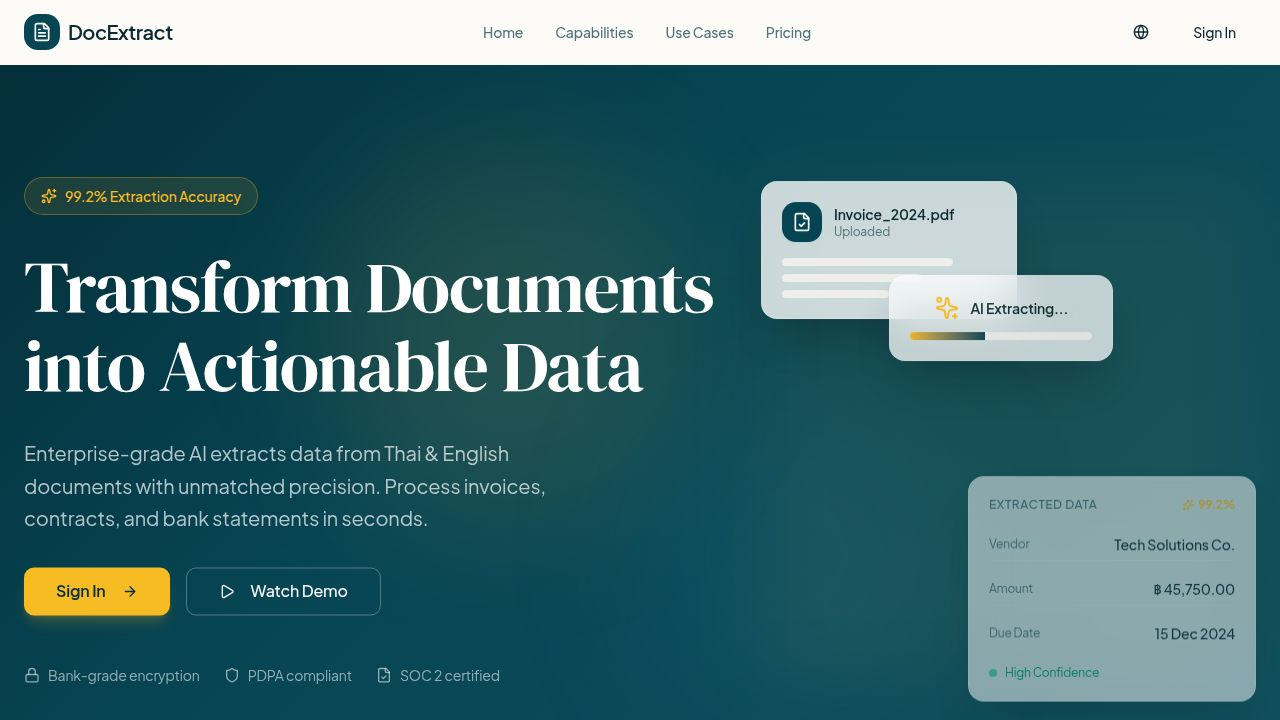
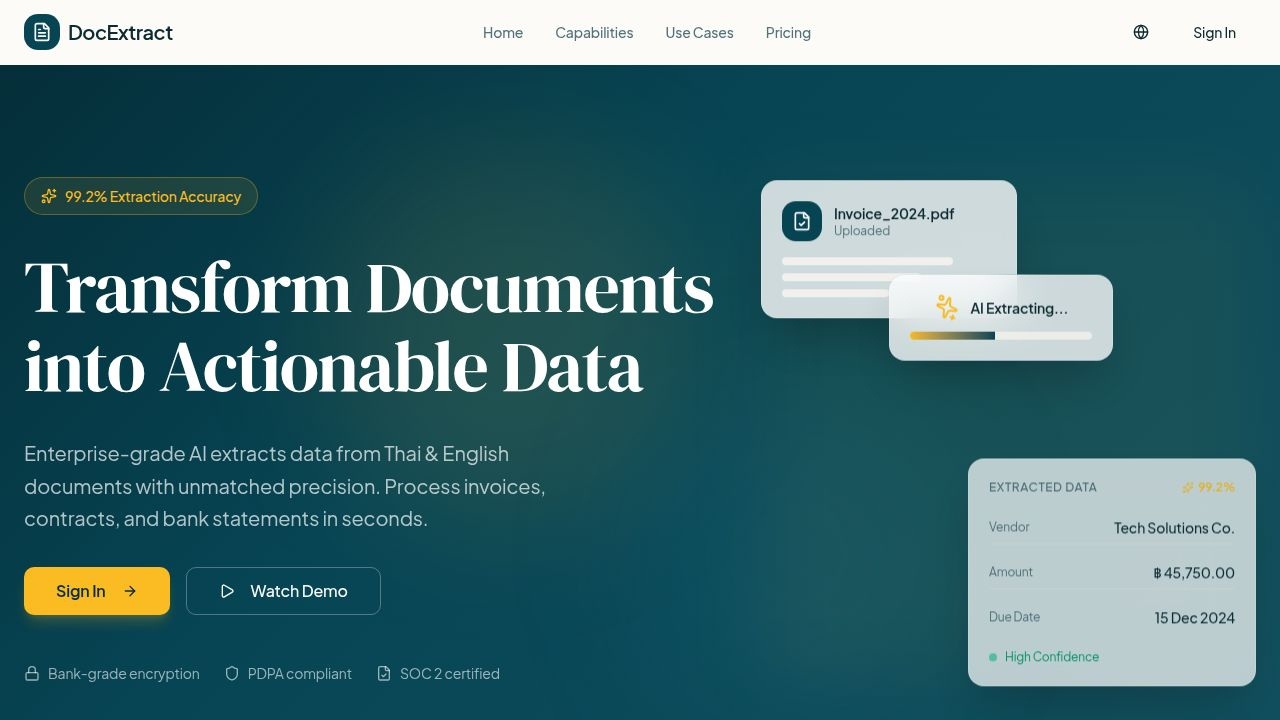
Add confidence scores to extraction results for better accuracy visualization
Introduce confidence score display in the UI, utilizing data from the LlamaExtract API, and adjust API responses and data structures to accommodate these scores.

Replit-Commit-Author: Agent
Replit-Commit-Session-Id: 5fcf8dc6-3b69-40bd-8610-a27c5a5dc634
Replit-Commit-Checkpoint-Type: full_checkpoint
Replit-Commit-Event-Id: a3c384a6-c186-493b-8062-cbcd479eb0fd
Replit-Commit-Screenshot-Url: https://storage.googleapis.com/screenshot-production-us-central1/7468f705-1096-4fb0-bb48-72b8b27fb6cf/5fcf8dc6-3b69-40bd-8610-a27c5a5dc634/j3AUyvM

diff --git a/client/src/components/StructuredResultsViewer.tsx b/client/src/components/StructuredResultsViewer.tsx
@@ -17,6 +17,7 @@ interface StructuredResultsViewerProps {
   headerFields: ExtractedField[];
   lineItems?: Array<Record<string, unknown>>;
   extractedData?: Record<string, unknown>;
+  confidenceScores?: Record<string, number>;
   documentType: DocumentType;
   onFieldChange?: (index: number, newValue: string) => void;
   className?: string;
@@ -185,20 +186,72 @@ function formatValue(value: unknown): string {
 }
 
 /**
- * Collapsible array section component
+ * Get confidence indicator class based on score
+ */
+function getConfidenceIndicatorClass(confidence: number): string {
+  if (confidence >= 0.9) {
+    return "bg-green-500 dark:bg-green-400";
+  } else if (confidence >= 0.7) {
+    return "bg-yellow-500 dark:bg-yellow-400";
+  } else {
+    return "bg-red-500 dark:bg-red-400";
+  }
+}
+
+/**
+ * Confidence indicator component - small dot with tooltip
+ */
+function ConfidenceIndicator({ confidence }: { confidence: number }) {
+  return (
+    <span
+      className={cn(
+        "inline-block w-2 h-2 rounded-full ml-1.5 cursor-help",
+        getConfidenceIndicatorClass(confidence)
+      )}
+      title={`Confidence: ${Math.round(confidence * 100)}%`}
+    />
+  );
+}
+
+/**
+ * Collapsible array section component with per-cell confidence
  */
 function ArraySection({
   config,
   data,
+  confidenceScores,
+  sectionConfidence,
   isExpanded,
   onToggle,
 }: {
   config: ArraySectionConfig;
   data: Array<Record<string, unknown>>;
+  confidenceScores?: Record<string, number>;
+  sectionConfidence?: number;
   isExpanded: boolean;
   onToggle: () => void;
 }) {
   if (!data || data.length === 0) return null;
+
+  // Get confidence for a specific cell
+  const getCellConfidence = (rowIndex: number, fieldKey: string): number | undefined => {
+    if (!confidenceScores) return sectionConfidence;
+    // Try different key formats that LlamaExtract might use
+    const keys = [
+      `${config.key}.${rowIndex}.${fieldKey}`,
+      `${config.key}[${rowIndex}].${fieldKey}`,
+      `${config.key}.${fieldKey}`,
+      // Also try without array notation
+      `${config.key}_${rowIndex}_${fieldKey}`,
+    ];
+    for (const key of keys) {
+      if (confidenceScores[key] !== undefined) {
+        return confidenceScores[key];
+      }
+    }
+    // Fall back to section-level confidence if per-cell not available
+    return sectionConfidence;
+  };
 
   return (
     <div className="mt-4 border-t pt-4" data-testid={`section-${config.key}`}>
@@ -234,14 +287,22 @@ function ArraySection({
             <TableBody>
               {data.map((item, rowIndex) => (
                 <TableRow key={rowIndex} data-testid={`row-${config.key}-${rowIndex}`}>
-                  {config.columns.map((col) => (
-                    <TableCell
-                      key={col.key}
-                      className={cn("text-sm py-2", col.width)}
-                    >
-                      {formatValue(item[col.key])}
-                    </TableCell>
-                  ))}
+                  {config.columns.map((col) => {
+                    const confidence = getCellConfidence(rowIndex, col.key);
+                    return (
+                      <TableCell
+                        key={col.key}
+                        className={cn("text-sm py-2", col.width)}
+                      >
+                        <span className="inline-flex items-center">
+                          {formatValue(item[col.key])}
+                          {confidence !== undefined && (
+                            <ConfidenceIndicator confidence={confidence} />
+                          )}
+                        </span>
+                      </TableCell>
+                    );
+                  })}
                 </TableRow>
               ))}
             </TableBody>
@@ -256,6 +317,7 @@ export function StructuredResultsViewer({
   headerFields,
   lineItems,
   extractedData,
+  confidenceScores,
   documentType,
   onFieldChange,
   className,
@@ -265,6 +327,11 @@ export function StructuredResultsViewer({
   const isResume = documentType === "resume";
   const lineItemsConfig = !isResume ? getLineItemsConfig(documentType) : null;
   const resumeArrayConfigs = isResume ? getResumeArrayConfigs() : [];
+  
+  // Calculate average confidence from header fields for fallback
+  const averageConfidence = headerFields.length > 0
+    ? headerFields.reduce((sum, field) => sum + field.confidence, 0) / headerFields.length
+    : 0.9;
 
   const toggleSection = (key: string) => {
     setExpandedSections((prev) => ({
@@ -341,6 +408,8 @@ export function StructuredResultsViewer({
         <ArraySection
           config={lineItemsConfig}
           data={lineItems}
+          confidenceScores={confidenceScores}
+          sectionConfidence={averageConfidence}
           isExpanded={isSectionExpanded(lineItemsConfig.key)}
           onToggle={() => toggleSection(lineItemsConfig.key)}
         />
@@ -354,6 +423,8 @@ export function StructuredResultsViewer({
             key={config.key}
             config={config}
             data={arrayData}
+            confidenceScores={confidenceScores}
+            sectionConfidence={averageConfidence}
             isExpanded={isSectionExpanded(config.key)}
             onToggle={() => toggleSection(config.key)}
           />

diff --git a/server/llamaExtract.ts b/server/llamaExtract.ts
@@ -55,6 +55,7 @@ export interface TemplateExtractionResult {
   headerFields: ExtractedField[];
   lineItems?: Array<Record<string, unknown>>;
   extractedData: Record<string, unknown>;
+  confidenceScores?: Record<string, number>; // Normalized confidence scores for all fields
 }
 
 export class LlamaExtractError extends Error {
@@ -423,9 +424,11 @@ export class LlamaExtractService {
   ): TemplateExtractionResult {
     console.log(`[LlamaExtract] Formatting result for document type: ${documentType}`);
     console.log(`[LlamaExtract] Raw result data:`, JSON.stringify(result.data, null, 2));
+    console.log(`[LlamaExtract] Extraction metadata:`, JSON.stringify(result.extraction_metadata, null, 2));
     
     const data = result.data || {};
     const confidenceScores = result.extraction_metadata?.confidence_scores || {};
+    console.log(`[LlamaExtract] Raw confidence scores:`, JSON.stringify(confidenceScores, null, 2));
 
     // Separate header fields from line items based on document type
     const lineItemsKey = this.getLineItemsKey(documentType);
@@ -441,12 +444,20 @@ export class LlamaExtractService {
       console.log(`[LlamaExtract] Line items count: ${lineItems.length}`);
     }
 
+    // Normalize all confidence scores for frontend use
+    const normalizedConfidenceScores: Record<string, number> = {};
+    for (const [key, score] of Object.entries(confidenceScores)) {
+      normalizedConfidenceScores[key] = this.normalizeConfidence(score);
+    }
+    console.log(`[LlamaExtract] Confidence scores count: ${Object.keys(normalizedConfidenceScores).length}`);
+
     return {
       success: true,
       pagesProcessed: 1, // LlamaExtract processes entire document
       headerFields,
       lineItems,
       extractedData: data,
+      confidenceScores: normalizedConfidenceScores,
     };
   }
 

diff --git a/server/routes.ts b/server/routes.ts
@@ -436,13 +436,14 @@ export async function registerRoutes(app: Express): Promise<Server> {
           headerFields: extractionResult.headerFields,
           lineItems: extractionResult.lineItems,
           extractedData: extractionResult.extractedData,
+          confidenceScores: extractionResult.confidenceScores,
           pagesProcessed: extractionResult.pagesProcessed,
           fileName: originalname,
           fileSize: size,
           mimeType: mimetype,
           documentId, // Include documentId so frontend can link it
         };
-        console.log(`[Template Extraction] Sending response with ${extractionResult.headerFields.length} header fields`);
+        console.log(`[Template Extraction] Sending response with ${extractionResult.headerFields.length} header fields, ${Object.keys(extractionResult.confidenceScores || {}).length} confidence scores`);
         res.json(responsePayload);
       } catch (error: any) {
         console.error("[Template Extraction] Error:", error);

diff --git a/client/src/pages/extraction.tsx b/client/src/pages/extraction.tsx
@@ -361,6 +361,7 @@ export default function Extraction() {
                 headerFields={templateResults.headerFields}
                 lineItems={templateResults.lineItems}
                 extractedData={templateResults.extractedData}
+                confidenceScores={templateResults.confidenceScores}
                 documentType={type as DocumentType}
                 onFieldChange={handleFieldChange}
                 className="h-full"

diff --git a/client/src/pages/extraction-detail.tsx b/client/src/pages/extraction-detail.tsx
@@ -141,6 +141,7 @@ export default function ExtractionDetail() {
               headerFields={extractedData?.headerFields || []}
               lineItems={extractedData?.lineItems || []}
               extractedData={extractedData}
+              confidenceScores={extractedData?.confidenceScores}
               documentType={extraction.documentType as DocumentType}
               className="h-full"
             />

diff --git a/client/src/lib/api.ts b/client/src/lib/api.ts
@@ -49,6 +49,7 @@ export interface TemplateExtractionResponse {
   headerFields: ExtractedField[];
   lineItems?: Array<Record<string, unknown>>;
   extractedData: Record<string, unknown>;
+  confidenceScores?: Record<string, number>; // Normalized confidence scores for all fields
   pagesProcessed: number;
   fileName: string;
   fileSize: number;
